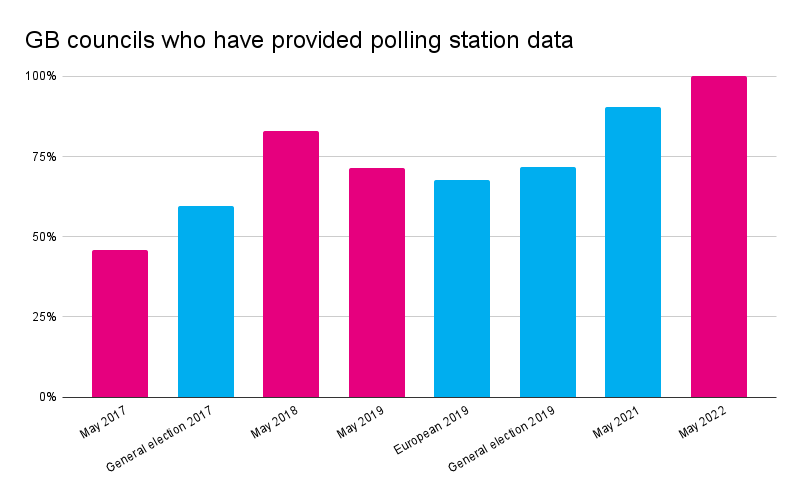
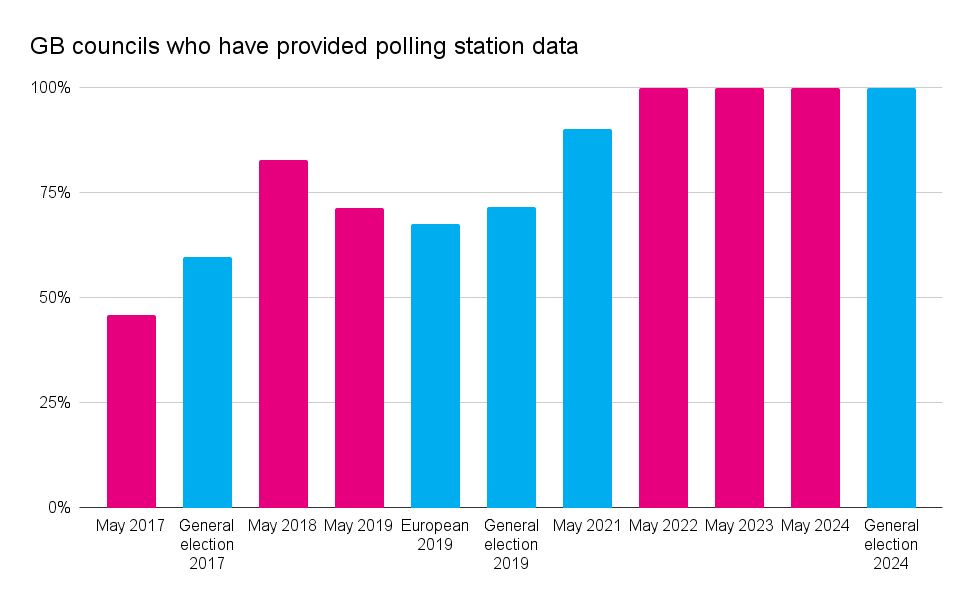
Update polling station graph with 2024 data

diff --git a/democracy_club/templates/research/impact.html b/democracy_club/templates/research/impact.html
@@ -96,7 +96,7 @@
         our polling station and candidate data has been used by the Electoral Commission to power the look-up tool on its own website.</p>
 
     <figure>
-        <img src="{% static "images/impact-figure-3.png" %}" alt="Figure 2">
+        <img src="{% static "images/impact-figure-3.png" %}" alt="Figure 3">
         <figcaption>
             <p>Figure 3 gives the proportion of GB councils taking part in each election who have provided us with polling
                 station data over the last five years.</p>
